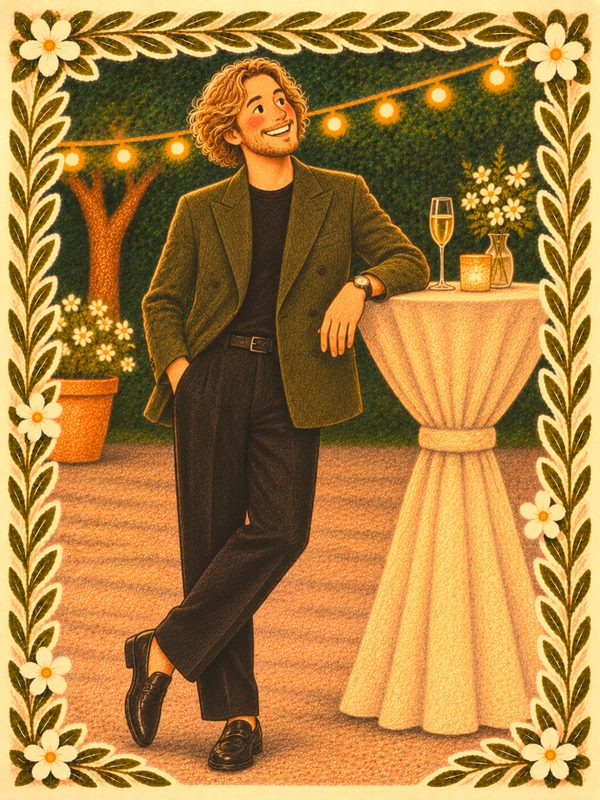
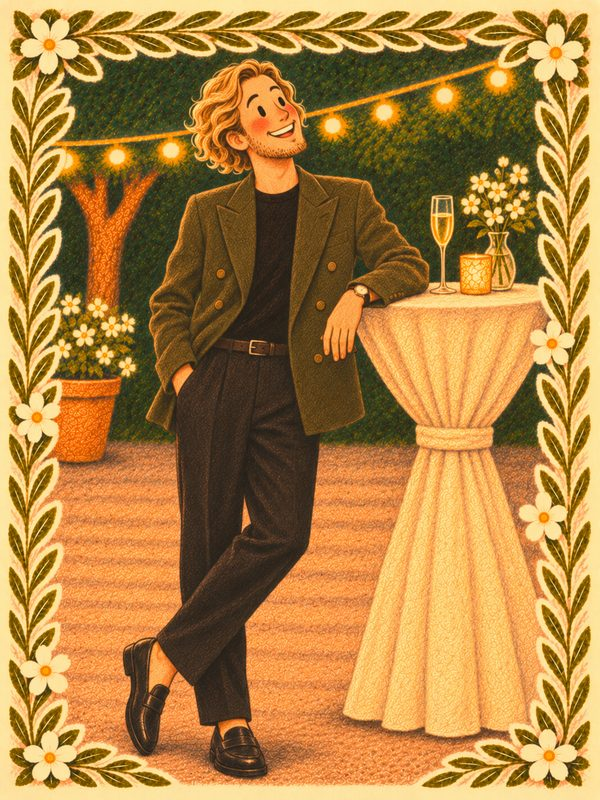
Replace two outfit images, update captions
Claude-Session: https://claude.ai/code/session_01FAJEXrpiRL2Ghw4cwgyNSx

diff --git a/wedding/index.html b/wedding/index.html
@@ -982,7 +982,7 @@ html:not([lang=he]) .env-to{font-size:1.5rem!important}
   </div>
   <div class="box tilt"><h3>Если хочешь в тон</h3><div class="sw"><span><i style="background:#5e6e24"></i>олива</span><span><i style="background:#9aa57a"></i>шалфей</span><span><i style="background:#b8643f"></i>терракота</span><span><i style="background:#c99a3a"></i>горчица</span><span><i style="background:#d9c3a0"></i>бежевый</span><span><i style="background:#4a3426"></i>шоколад</span></div>
     <h4 class="lk-h">Идеи для вдохновения</h4>
-    <ol class="looks" id="looks"><li><picture><source srcset="img/look8.webp" type="image/webp"><img src="img/look8.jpg" width="600" height="800" loading="lazy" alt=""></picture><p>Шоколадное платье с запахом до колена и слингбэки · вязаное поло и лоферы</p></li><li><picture><source srcset="img/look1.webp" type="image/webp"><img src="img/look1.jpg" width="600" height="800" loading="lazy" alt=""></picture><p>Атласная юбка цвета терракоты и объёмный свитер · бежевая водолазка под коричневый пиджак</p></li><li><picture><source srcset="img/look12.webp" type="image/webp"><img src="img/look12.jpg" width="600" height="800" loading="lazy" alt=""></picture><p>Горчичное платье с объёмными рукавами и босоножки на устойчивом каблуке</p></li><li><picture><source srcset="img/look14.webp" type="image/webp"><img src="img/look14.jpg" width="600" height="800" loading="lazy" alt=""></picture><p>Оливковый двубортный пиджак, чёрная футболка и лоферы</p></li><li><picture><source srcset="img/look10.webp" type="image/webp"><img src="img/look10.jpg" width="600" height="800" loading="lazy" alt=""></picture><p>Платье цвета шалфея с воротничком · рубашка-куртка и светлые брюки</p></li><li><picture><source srcset="img/look2.webp" type="image/webp"><img src="img/look2.jpg" width="600" height="800" loading="lazy" alt=""></picture><p>Оливковое платье-комбинация поверх лонгслива · коричневый костюм с вязаным поло</p></li><li><picture><source srcset="img/look16.webp" type="image/webp"><img src="img/look16.jpg" width="600" height="800" loading="lazy" alt=""></picture><p>Бархатное платье до колена, плотные колготки и ботильоны</p></li><li><picture><source srcset="img/look13.webp" type="image/webp"><img src="img/look13.jpg" width="600" height="800" loading="lazy" alt=""></picture><p>Свитер цвета терракоты поверх белой рубашки, светлые чиносы и кеды</p></li><li><picture><source srcset="img/look4.webp" type="image/webp"><img src="img/look4.jpg" width="600" height="800" loading="lazy" alt=""></picture><p>Вязаное платье и тренч, можно с кедами · свитер-поло на молнии</p></li><li><picture><source srcset="img/look11.webp" type="image/webp"><img src="img/look11.jpg" width="600" height="800" loading="lazy" alt=""></picture><p>Бархатное платье цвета терракоты, ботильоны и тёплая куртка на плечах</p></li><li><picture><source srcset="img/look15.webp" type="image/webp"><img src="img/look15.jpg" width="600" height="800" loading="lazy" alt=""></picture><p>Тёмный костюм, зелёный галстук и челси, если хочется построже</p></li><li><picture><source srcset="img/look5.webp" type="image/webp"><img src="img/look5.jpg" width="600" height="800" loading="lazy" alt=""></picture><p>Пыльно-розовое макси · светлый костюм и рубашка в тон</p></li><li><picture><source srcset="img/look3.webp" type="image/webp"><img src="img/look3.jpg" width="600" height="800" loading="lazy" alt=""></picture><p>Кремовая блузка и атласная юбка цвета оливы · кардиган и брюки</p></li><li><picture><source srcset="img/look9.webp" type="image/webp"><img src="img/look9.jpg" width="600" height="800" loading="lazy" alt=""></picture><p>Плиссированная юбка до колена и свитер · свитер поверх рубашки и джинсы</p></li><li><picture><source srcset="img/look6.webp" type="image/webp"><img src="img/look6.jpg" width="600" height="800" loading="lazy" alt=""></picture><p>Вязаное платье и пальто цвета терракоты · бежевый пиджак и водолазка</p></li><li><picture><source srcset="img/look7.webp" type="image/webp"><img src="img/look7.jpg" width="600" height="800" loading="lazy" alt=""></picture><p>Платье-рубашка и лоферы · бомбер, джинсы и белые кеды</p></li></ol>
+    <ol class="looks" id="looks"><li><picture><source srcset="img/look8.webp" type="image/webp"><img src="img/look8.jpg" width="600" height="800" loading="lazy" alt=""></picture><p>Шоколадное платье с запахом до колена и слингбэки · вязаное поло и лоферы</p></li><li><picture><source srcset="img/look1.webp" type="image/webp"><img src="img/look1.jpg" width="600" height="800" loading="lazy" alt=""></picture><p>Атласная юбка цвета терракоты и объёмный свитер · бежевая водолазка под коричневый пиджак</p></li><li><picture><source srcset="img/look12.webp" type="image/webp"><img src="img/look12.jpg" width="600" height="800" loading="lazy" alt=""></picture><p>Горчичное платье с объёмными рукавами и босоножки на устойчивом каблуке</p></li><li><picture><source srcset="img/look14.webp" type="image/webp"><img src="img/look14.jpg" width="600" height="800" loading="lazy" alt=""></picture><p>Оливковый двубортный пиджак, чёрная футболка, тёмные брюки и лоферы</p></li><li><picture><source srcset="img/look10.webp" type="image/webp"><img src="img/look10.jpg" width="600" height="800" loading="lazy" alt=""></picture><p>Оливковое платье с кремовым воротничком и мэри-джейн · рубашка-куртка, светлые брюки и кеды</p></li><li><picture><source srcset="img/look2.webp" type="image/webp"><img src="img/look2.jpg" width="600" height="800" loading="lazy" alt=""></picture><p>Оливковое платье-комбинация поверх лонгслива · коричневый костюм с вязаным поло</p></li><li><picture><source srcset="img/look16.webp" type="image/webp"><img src="img/look16.jpg" width="600" height="800" loading="lazy" alt=""></picture><p>Бархатное платье до колена, плотные колготки и ботильоны</p></li><li><picture><source srcset="img/look13.webp" type="image/webp"><img src="img/look13.jpg" width="600" height="800" loading="lazy" alt=""></picture><p>Свитер цвета терракоты поверх белой рубашки, светлые чиносы и кеды</p></li><li><picture><source srcset="img/look4.webp" type="image/webp"><img src="img/look4.jpg" width="600" height="800" loading="lazy" alt=""></picture><p>Вязаное платье и тренч, можно с кедами · свитер-поло на молнии</p></li><li><picture><source srcset="img/look11.webp" type="image/webp"><img src="img/look11.jpg" width="600" height="800" loading="lazy" alt=""></picture><p>Бархатное платье цвета терракоты, ботильоны и тёплая куртка на плечах</p></li><li><picture><source srcset="img/look15.webp" type="image/webp"><img src="img/look15.jpg" width="600" height="800" loading="lazy" alt=""></picture><p>Тёмный костюм, зелёный галстук и челси, если хочется построже</p></li><li><picture><source srcset="img/look5.webp" type="image/webp"><img src="img/look5.jpg" width="600" height="800" loading="lazy" alt=""></picture><p>Пыльно-розовое макси · светлый костюм и рубашка в тон</p></li><li><picture><source srcset="img/look3.webp" type="image/webp"><img src="img/look3.jpg" width="600" height="800" loading="lazy" alt=""></picture><p>Кремовая блузка и атласная юбка цвета оливы · кардиган и брюки</p></li><li><picture><source srcset="img/look9.webp" type="image/webp"><img src="img/look9.jpg" width="600" height="800" loading="lazy" alt=""></picture><p>Плиссированная юбка до колена и свитер · свитер поверх рубашки и джинсы</p></li><li><picture><source srcset="img/look6.webp" type="image/webp"><img src="img/look6.jpg" width="600" height="800" loading="lazy" alt=""></picture><p>Вязаное платье и пальто цвета терракоты · бежевый пиджак и водолазка</p></li><li><picture><source srcset="img/look7.webp" type="image/webp"><img src="img/look7.jpg" width="600" height="800" loading="lazy" alt=""></picture><p>Платье-рубашка и лоферы · бомбер, джинсы и белые кеды</p></li></ol>
     <div class="cnav"><button type="button" class="cbtn" id="lprev" aria-label="Назад">‹</button><span id="lcount"></span><button type="button" class="cbtn" id="lnext" aria-label="Дальше">›</button></div>
   </div>
   <div class="wxbox" id="wx" data-lang="ru" data-norm="Обычная погода в конце января. За две недели до свадьбы здесь появится точный прогноз." data-live="Прогноз на неделю свадьбы" data-week="Прогноз на ближайшую неделю">

diff --git a/wedding/he/index.html b/wedding/he/index.html
@@ -982,7 +982,7 @@ html:not([lang=he]) .env-to{font-size:1.5rem!important}
   </div>
   <div class="box tilt"><h3>אם בא לכם להתאים</h3><div class="sw"><span><i style="background:#5e6e24"></i>זית</span><span><i style="background:#9aa57a"></i>מרווה</span><span><i style="background:#b8643f"></i>טרקוטה</span><span><i style="background:#c99a3a"></i>חרדל</span><span><i style="background:#d9c3a0"></i>בז׳</span><span><i style="background:#4a3426"></i>שוקולד</span></div>
     <h4 class="lk-h">רעיונות להשראה</h4>
-    <ol class="looks" id="looks"><li><picture><source srcset="../img/look8.webp" type="image/webp"><img src="../img/look8.jpg" width="600" height="800" loading="lazy" alt=""></picture><p>שמלת מעטפת בצבע שוקולד עד הברך ונעלי סלינגבק · פולו סרוג ולופרים</p></li><li><picture><source srcset="../img/look1.webp" type="image/webp"><img src="../img/look1.jpg" width="600" height="800" loading="lazy" alt=""></picture><p>חצאית סאטן בצבע טרקוטה וסוודר עבה · גולף בז׳ מתחת לז׳קט חום</p></li><li><picture><source srcset="../img/look12.webp" type="image/webp"><img src="../img/look12.jpg" width="600" height="800" loading="lazy" alt=""></picture><p>שמלה בצבע חרדל עם שרוולים נפוחים וסנדלים עם עקב יציב</p></li><li><picture><source srcset="../img/look14.webp" type="image/webp"><img src="../img/look14.jpg" width="600" height="800" loading="lazy" alt=""></picture><p>ז׳קט כפול רכיסה בצבע זית, טישירט שחורה ולופרים</p></li><li><picture><source srcset="../img/look10.webp" type="image/webp"><img src="../img/look10.jpg" width="600" height="800" loading="lazy" alt=""></picture><p>שמלה בצבע מרווה עם צווארון · אוברשירט ומכנסיים בהירים</p></li><li><picture><source srcset="../img/look2.webp" type="image/webp"><img src="../img/look2.jpg" width="600" height="800" loading="lazy" alt=""></picture><p>שמלת סליפ בצבע זית מעל חולצה ארוכה · חליפה חומה עם פולו סרוג</p></li><li><picture><source srcset="../img/look16.webp" type="image/webp"><img src="../img/look16.jpg" width="600" height="800" loading="lazy" alt=""></picture><p>שמלת קטיפה עד הברך, גרביונים ומגפונים</p></li><li><picture><source srcset="../img/look13.webp" type="image/webp"><img src="../img/look13.jpg" width="600" height="800" loading="lazy" alt=""></picture><p>סוודר טרקוטה מעל חולצה לבנה, צ׳ינוס בהיר וסניקרס</p></li><li><picture><source srcset="../img/look4.webp" type="image/webp"><img src="../img/look4.jpg" width="600" height="800" loading="lazy" alt=""></picture><p>שמלה סרוגה ומעיל טרנץ׳, אפשר עם סניקרס · סוודר פולו עם רוכסן</p></li><li><picture><source srcset="../img/look11.webp" type="image/webp"><img src="../img/look11.jpg" width="600" height="800" loading="lazy" alt=""></picture><p>שמלת קטיפה בצבע טרקוטה, מגפונים וז׳קט חם על הכתף</p></li><li><picture><source srcset="../img/look15.webp" type="image/webp"><img src="../img/look15.jpg" width="600" height="800" loading="lazy" alt=""></picture><p>חליפה כהה, עניבה ירוקה ומגפי צ׳לסי, למי שאוהב קלאסי</p></li><li><picture><source srcset="../img/look5.webp" type="image/webp"><img src="../img/look5.jpg" width="600" height="800" loading="lazy" alt=""></picture><p>שמלת מקסי בוורוד עתיק · חליפה בהירה עם חולצה תואמת</p></li><li><picture><source srcset="../img/look3.webp" type="image/webp"><img src="../img/look3.jpg" width="600" height="800" loading="lazy" alt=""></picture><p>חולצה בצבע שמנת וחצאית סאטן בצבע זית · קרדיגן ומכנסיים</p></li><li><picture><source srcset="../img/look9.webp" type="image/webp"><img src="../img/look9.jpg" width="600" height="800" loading="lazy" alt=""></picture><p>חצאית פליסה עד הברך וסוודר · סוודר מעל חולצה מכופתרת וג׳ינס</p></li><li><picture><source srcset="../img/look6.webp" type="image/webp"><img src="../img/look6.jpg" width="600" height="800" loading="lazy" alt=""></picture><p>שמלה סרוגה ומעיל טרקוטה · ז׳קט בז׳ וגולף</p></li><li><picture><source srcset="../img/look7.webp" type="image/webp"><img src="../img/look7.jpg" width="600" height="800" loading="lazy" alt=""></picture><p>שמלת חולצה ולופרים · ג׳קט בומבר, ג׳ינס וסניקרס לבנים</p></li></ol>
+    <ol class="looks" id="looks"><li><picture><source srcset="../img/look8.webp" type="image/webp"><img src="../img/look8.jpg" width="600" height="800" loading="lazy" alt=""></picture><p>שמלת מעטפת בצבע שוקולד עד הברך ונעלי סלינגבק · פולו סרוג ולופרים</p></li><li><picture><source srcset="../img/look1.webp" type="image/webp"><img src="../img/look1.jpg" width="600" height="800" loading="lazy" alt=""></picture><p>חצאית סאטן בצבע טרקוטה וסוודר עבה · גולף בז׳ מתחת לז׳קט חום</p></li><li><picture><source srcset="../img/look12.webp" type="image/webp"><img src="../img/look12.jpg" width="600" height="800" loading="lazy" alt=""></picture><p>שמלה בצבע חרדל עם שרוולים נפוחים וסנדלים עם עקב יציב</p></li><li><picture><source srcset="../img/look14.webp" type="image/webp"><img src="../img/look14.jpg" width="600" height="800" loading="lazy" alt=""></picture><p>ז׳קט כפול רכיסה בצבע זית, טישירט שחורה, מכנסיים כהים ולופרים</p></li><li><picture><source srcset="../img/look10.webp" type="image/webp"><img src="../img/look10.jpg" width="600" height="800" loading="lazy" alt=""></picture><p>שמלה בצבע זית עם צווארון שמנת ונעלי מרי ג׳יין · אוברשירט, מכנסיים בהירים וסניקרס</p></li><li><picture><source srcset="../img/look2.webp" type="image/webp"><img src="../img/look2.jpg" width="600" height="800" loading="lazy" alt=""></picture><p>שמלת סליפ בצבע זית מעל חולצה ארוכה · חליפה חומה עם פולו סרוג</p></li><li><picture><source srcset="../img/look16.webp" type="image/webp"><img src="../img/look16.jpg" width="600" height="800" loading="lazy" alt=""></picture><p>שמלת קטיפה עד הברך, גרביונים ומגפונים</p></li><li><picture><source srcset="../img/look13.webp" type="image/webp"><img src="../img/look13.jpg" width="600" height="800" loading="lazy" alt=""></picture><p>סוודר טרקוטה מעל חולצה לבנה, צ׳ינוס בהיר וסניקרס</p></li><li><picture><source srcset="../img/look4.webp" type="image/webp"><img src="../img/look4.jpg" width="600" height="800" loading="lazy" alt=""></picture><p>שמלה סרוגה ומעיל טרנץ׳, אפשר עם סניקרס · סוודר פולו עם רוכסן</p></li><li><picture><source srcset="../img/look11.webp" type="image/webp"><img src="../img/look11.jpg" width="600" height="800" loading="lazy" alt=""></picture><p>שמלת קטיפה בצבע טרקוטה, מגפונים וז׳קט חם על הכתף</p></li><li><picture><source srcset="../img/look15.webp" type="image/webp"><img src="../img/look15.jpg" width="600" height="800" loading="lazy" alt=""></picture><p>חליפה כהה, עניבה ירוקה ומגפי צ׳לסי, למי שאוהב קלאסי</p></li><li><picture><source srcset="../img/look5.webp" type="image/webp"><img src="../img/look5.jpg" width="600" height="800" loading="lazy" alt=""></picture><p>שמלת מקסי בוורוד עתיק · חליפה בהירה עם חולצה תואמת</p></li><li><picture><source srcset="../img/look3.webp" type="image/webp"><img src="../img/look3.jpg" width="600" height="800" loading="lazy" alt=""></picture><p>חולצה בצבע שמנת וחצאית סאטן בצבע זית · קרדיגן ומכנסיים</p></li><li><picture><source srcset="../img/look9.webp" type="image/webp"><img src="../img/look9.jpg" width="600" height="800" loading="lazy" alt=""></picture><p>חצאית פליסה עד הברך וסוודר · סוודר מעל חולצה מכופתרת וג׳ינס</p></li><li><picture><source srcset="../img/look6.webp" type="image/webp"><img src="../img/look6.jpg" width="600" height="800" loading="lazy" alt=""></picture><p>שמלה סרוגה ומעיל טרקוטה · ז׳קט בז׳ וגולף</p></li><li><picture><source srcset="../img/look7.webp" type="image/webp"><img src="../img/look7.jpg" width="600" height="800" loading="lazy" alt=""></picture><p>שמלת חולצה ולופרים · ג׳קט בומבר, ג׳ינס וסניקרס לבנים</p></li></ol>
     <div class="cnav"><button type="button" class="cbtn" id="lprev" aria-label="הקודם">‹</button><span id="lcount"></span><button type="button" class="cbtn" id="lnext" aria-label="הבא">›</button></div>
   </div>
   <div class="wxbox" id="wx" data-lang="he" data-norm="מזג אוויר רגיל בסוף ינואר. שבועיים לפני החתונה תופיע כאן התחזית." data-live="תחזית לשבוע החתונה" data-week="תחזית לשבוע הקרוב">

diff --git a/wedding/en/index.html b/wedding/en/index.html
@@ -982,7 +982,7 @@ html:not([lang=he]) .env-to{font-size:1.5rem!important}
   </div>
   <div class="box tilt"><h3>If you'd like to match</h3><div class="sw"><span><i style="background:#5e6e24"></i>olive</span><span><i style="background:#9aa57a"></i>sage</span><span><i style="background:#b8643f"></i>terracotta</span><span><i style="background:#c99a3a"></i>mustard</span><span><i style="background:#d9c3a0"></i>beige</span><span><i style="background:#4a3426"></i>chocolate</span></div>
     <h4 class="lk-h">Outfit ideas</h4>
-    <ol class="looks" id="looks"><li><picture><source srcset="../img/look8.webp" type="image/webp"><img src="../img/look8.jpg" width="600" height="800" loading="lazy" alt=""></picture><p>Knee-length chocolate wrap dress and slingbacks · knit polo and loafers</p></li><li><picture><source srcset="../img/look1.webp" type="image/webp"><img src="../img/look1.jpg" width="600" height="800" loading="lazy" alt=""></picture><p>Terracotta satin skirt and a chunky sweater · beige turtleneck under a brown blazer</p></li><li><picture><source srcset="../img/look12.webp" type="image/webp"><img src="../img/look12.jpg" width="600" height="800" loading="lazy" alt=""></picture><p>Mustard dress with puff sleeves and block-heel sandals</p></li><li><picture><source srcset="../img/look14.webp" type="image/webp"><img src="../img/look14.jpg" width="600" height="800" loading="lazy" alt=""></picture><p>Olive double-breasted blazer, black tee and loafers</p></li><li><picture><source srcset="../img/look10.webp" type="image/webp"><img src="../img/look10.jpg" width="600" height="800" loading="lazy" alt=""></picture><p>Sage dress with a collar · overshirt and light trousers</p></li><li><picture><source srcset="../img/look2.webp" type="image/webp"><img src="../img/look2.jpg" width="600" height="800" loading="lazy" alt=""></picture><p>Olive slip dress over a long-sleeve top · brown suit with a knit polo</p></li><li><picture><source srcset="../img/look16.webp" type="image/webp"><img src="../img/look16.jpg" width="600" height="800" loading="lazy" alt=""></picture><p>Knee-length velvet dress, tights and ankle boots</p></li><li><picture><source srcset="../img/look13.webp" type="image/webp"><img src="../img/look13.jpg" width="600" height="800" loading="lazy" alt=""></picture><p>Terracotta sweater over a white shirt, light chinos and sneakers</p></li><li><picture><source srcset="../img/look4.webp" type="image/webp"><img src="../img/look4.jpg" width="600" height="800" loading="lazy" alt=""></picture><p>Knit dress and a trench, sneakers are fine · zip-neck knit polo</p></li><li><picture><source srcset="../img/look11.webp" type="image/webp"><img src="../img/look11.jpg" width="600" height="800" loading="lazy" alt=""></picture><p>Terracotta velvet dress, ankle boots and a cosy jacket over the shoulder</p></li><li><picture><source srcset="../img/look15.webp" type="image/webp"><img src="../img/look15.jpg" width="600" height="800" loading="lazy" alt=""></picture><p>Dark suit, green tie and Chelsea boots, if you like it classic</p></li><li><picture><source srcset="../img/look5.webp" type="image/webp"><img src="../img/look5.jpg" width="600" height="800" loading="lazy" alt=""></picture><p>Dusty rose maxi · light suit with a matching shirt</p></li><li><picture><source srcset="../img/look3.webp" type="image/webp"><img src="../img/look3.jpg" width="600" height="800" loading="lazy" alt=""></picture><p>Cream blouse and olive satin skirt · cardigan and trousers</p></li><li><picture><source srcset="../img/look9.webp" type="image/webp"><img src="../img/look9.jpg" width="600" height="800" loading="lazy" alt=""></picture><p>Knee-length pleated skirt and a sweater · sweater over a shirt and jeans</p></li><li><picture><source srcset="../img/look6.webp" type="image/webp"><img src="../img/look6.jpg" width="600" height="800" loading="lazy" alt=""></picture><p>Knit dress and a terracotta coat · beige blazer and turtleneck</p></li><li><picture><source srcset="../img/look7.webp" type="image/webp"><img src="../img/look7.jpg" width="600" height="800" loading="lazy" alt=""></picture><p>Shirt dress and loafers · bomber, jeans and white sneakers</p></li></ol>
+    <ol class="looks" id="looks"><li><picture><source srcset="../img/look8.webp" type="image/webp"><img src="../img/look8.jpg" width="600" height="800" loading="lazy" alt=""></picture><p>Knee-length chocolate wrap dress and slingbacks · knit polo and loafers</p></li><li><picture><source srcset="../img/look1.webp" type="image/webp"><img src="../img/look1.jpg" width="600" height="800" loading="lazy" alt=""></picture><p>Terracotta satin skirt and a chunky sweater · beige turtleneck under a brown blazer</p></li><li><picture><source srcset="../img/look12.webp" type="image/webp"><img src="../img/look12.jpg" width="600" height="800" loading="lazy" alt=""></picture><p>Mustard dress with puff sleeves and block-heel sandals</p></li><li><picture><source srcset="../img/look14.webp" type="image/webp"><img src="../img/look14.jpg" width="600" height="800" loading="lazy" alt=""></picture><p>Olive double-breasted blazer, black tee, dark trousers and loafers</p></li><li><picture><source srcset="../img/look10.webp" type="image/webp"><img src="../img/look10.jpg" width="600" height="800" loading="lazy" alt=""></picture><p>Olive dress with a cream collar and Mary Janes · overshirt, light trousers and sneakers</p></li><li><picture><source srcset="../img/look2.webp" type="image/webp"><img src="../img/look2.jpg" width="600" height="800" loading="lazy" alt=""></picture><p>Olive slip dress over a long-sleeve top · brown suit with a knit polo</p></li><li><picture><source srcset="../img/look16.webp" type="image/webp"><img src="../img/look16.jpg" width="600" height="800" loading="lazy" alt=""></picture><p>Knee-length velvet dress, tights and ankle boots</p></li><li><picture><source srcset="../img/look13.webp" type="image/webp"><img src="../img/look13.jpg" width="600" height="800" loading="lazy" alt=""></picture><p>Terracotta sweater over a white shirt, light chinos and sneakers</p></li><li><picture><source srcset="../img/look4.webp" type="image/webp"><img src="../img/look4.jpg" width="600" height="800" loading="lazy" alt=""></picture><p>Knit dress and a trench, sneakers are fine · zip-neck knit polo</p></li><li><picture><source srcset="../img/look11.webp" type="image/webp"><img src="../img/look11.jpg" width="600" height="800" loading="lazy" alt=""></picture><p>Terracotta velvet dress, ankle boots and a cosy jacket over the shoulder</p></li><li><picture><source srcset="../img/look15.webp" type="image/webp"><img src="../img/look15.jpg" width="600" height="800" loading="lazy" alt=""></picture><p>Dark suit, green tie and Chelsea boots, if you like it classic</p></li><li><picture><source srcset="../img/look5.webp" type="image/webp"><img src="../img/look5.jpg" width="600" height="800" loading="lazy" alt=""></picture><p>Dusty rose maxi · light suit with a matching shirt</p></li><li><picture><source srcset="../img/look3.webp" type="image/webp"><img src="../img/look3.jpg" width="600" height="800" loading="lazy" alt=""></picture><p>Cream blouse and olive satin skirt · cardigan and trousers</p></li><li><picture><source srcset="../img/look9.webp" type="image/webp"><img src="../img/look9.jpg" width="600" height="800" loading="lazy" alt=""></picture><p>Knee-length pleated skirt and a sweater · sweater over a shirt and jeans</p></li><li><picture><source srcset="../img/look6.webp" type="image/webp"><img src="../img/look6.jpg" width="600" height="800" loading="lazy" alt=""></picture><p>Knit dress and a terracotta coat · beige blazer and turtleneck</p></li><li><picture><source srcset="../img/look7.webp" type="image/webp"><img src="../img/look7.jpg" width="600" height="800" loading="lazy" alt=""></picture><p>Shirt dress and loafers · bomber, jeans and white sneakers</p></li></ol>
     <div class="cnav"><button type="button" class="cbtn" id="lprev" aria-label="Back">‹</button><span id="lcount"></span><button type="button" class="cbtn" id="lnext" aria-label="Next">›</button></div>
   </div>
   <div class="wxbox" id="wx" data-lang="en" data-norm="Typical late-January weather. Two weeks before the wedding, the real forecast will appear here." data-live="Forecast for the wedding week" data-week="Forecast for the coming week">
